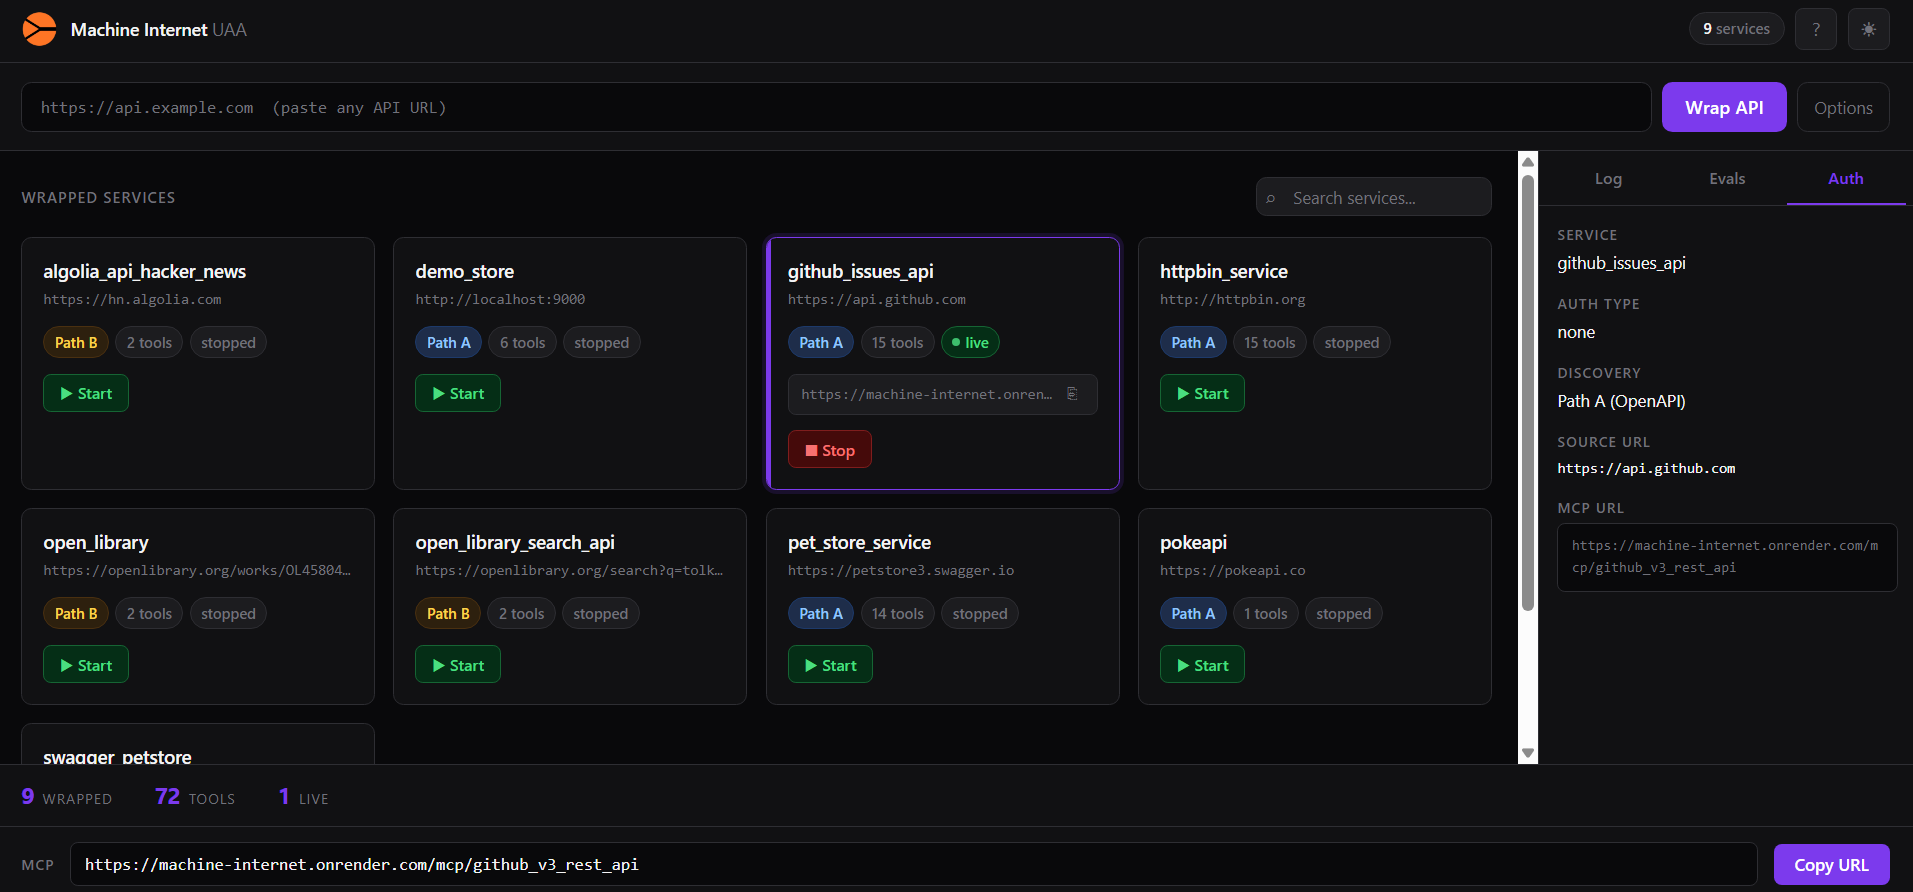
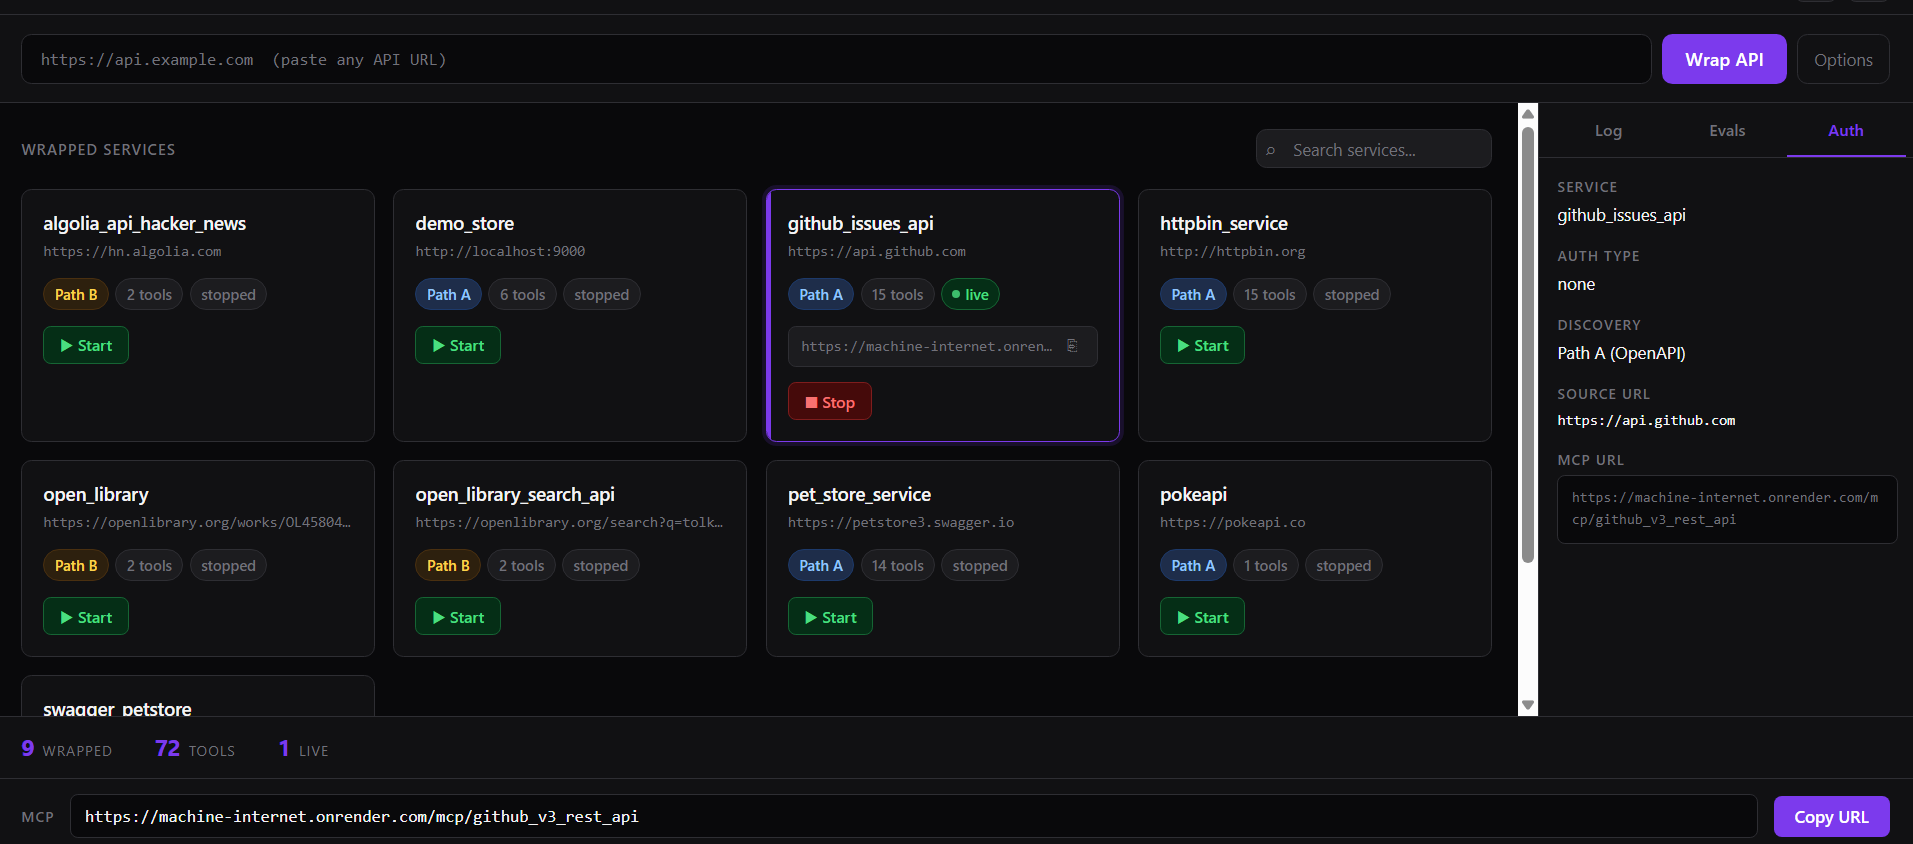
Polish README for launch: badges, links, crop UAA header, tighten demo section
- Crop top 48px from dashboard.png to remove 'Machine Internet UAA' title bar
- Add three shields.io badges (license, Python, MCP) under tagline
- Add compatibility line before MCP config snippet (Claude Desktop, Cursor, Cline)
- Add hyperlinks to all service names in hosted endpoints and verified on tables
- Tighten demo section: remove blank lines between images and captions
- Add GIF placeholder comment in demo section
- Link microsoft/vscode in Claude MCP screenshot caption
- Fix em dash to regular dash in project structure footer line

diff --git a/README.md b/README.md
@@ -6,11 +6,15 @@ Point it at any URL. It discovers the API surface, condenses it into clean agent
 
 **Live:** [machine-internet.onrender.com](https://machine-internet.onrender.com)
 
+![License](https://img.shields.io/badge/license-Apache%202.0-blue)
+![Python](https://img.shields.io/badge/python-3.10%2B-blue)
+![MCP](https://img.shields.io/badge/MCP-compatible-orange)
+
 ---
 
 ## Use a hosted endpoint right now
 
-No installation. No API keys. Just paste into your MCP config and go.
+Works with Claude Desktop, Cursor, Cline, and any MCP-compatible client.
 
 ```json
 {
@@ -39,12 +43,12 @@ Or wrap any API yourself at [machine-internet.onrender.com](https://machine-inte
 
 | API | Endpoint | Tools |
 |---|---|---|
-| GitHub Issues | `/mcp/github_v3_rest_api` | 15 — list, create, update, comment, label |
-| HN Algolia Search | `/mcp/algolia_api_hacker_news` | 2 — search articles, status |
-| httpbin | `/mcp/httpbin_service` | 15 — inspect, auth, redirect |
-| Open Library | `/mcp/open_library` | 2 — books, affiliate links |
-| Open Library Search | `/mcp/open_library_search_api` | 2 — search books/authors, facets |
-| PokéAPI | `/mcp/pokeapi` | 1 — get Pokemon |
+| [GitHub Issues](https://docs.github.com/en/rest/issues/issues) | `/mcp/github_v3_rest_api` | 15 — list, create, update, comment, label |
+| [HN Algolia Search](https://hn.algolia.com/api) | `/mcp/algolia_api_hacker_news` | 2 — search articles, status |
+| [httpbin](https://httpbin.org) | `/mcp/httpbin_service` | 15 — inspect, auth, redirect |
+| [Open Library](https://openlibrary.org) | `/mcp/open_library` | 2 — books, affiliate links |
+| [Open Library Search](https://openlibrary.org/search) | `/mcp/open_library_search_api` | 2 — search books/authors, facets |
+| [PokéAPI](https://pokeapi.co) | `/mcp/pokeapi` | 1 — get Pokemon |
 
 All endpoints are live and free. Base URL: `https://machine-internet.onrender.com`
 
@@ -54,13 +58,13 @@ Want an API that isn't listed? Wrap it yourself in 30 seconds on the dashboard.
 
 ## Demo
 
-![Machine Internet Dashboard](assets/dashboard.png)
+<!-- GIF coming soon: terminal running discover.py against httpbin, 73 endpoints to 15 tools -->
 
+![Machine Internet Dashboard](assets/dashboard.png)
 *The Machine Internet dashboard. 9 services wrapped, 72 tools available, live MCP endpoints with one-click copy.*
 
 ![Claude calling GitHub data via MCP](assets/claude_mcp.png)
-
-*Claude calling live GitHub data through a Machine Internet MCP endpoint. 17,938 open issues as of today.*
+*Claude calling live [GitHub](https://github.com/microsoft/vscode) data through a Machine Internet MCP endpoint. 17,938 open issues as of today.*
 
 ---
 
@@ -82,7 +86,7 @@ Want an API that isn't listed? Wrap it yourself in 30 seconds on the dashboard.
 Probes 20 standard locations for an OpenAPI or Swagger spec. If found, parses the entire API surface automatically. Zero LLM cost. Works on any documented API.
 
 **Path B: Traffic sniffing**
-If no spec exists, launches headless Chromium, observes XHR traffic while interacting with the page, and uses an LLM to infer a schema from what was captured. Works on SPAs and undocumented services. Verified on PokéAPI and HN Algolia (which calls a different TLD than its website).
+If no spec exists, launches headless Chromium, observes XHR traffic while interacting with the page, and uses an LLM to infer a schema from what was captured. Works on SPAs and undocumented services. Verified on [PokéAPI](https://pokeapi.co) and [HN Algolia](https://hn.algolia.com/api) (which calls a different TLD than its website).
 
 **Condensation**
 Raw API specs can have hundreds of endpoints. An LLM collapses them into 10-15 clean tools with `verb_noun` names and descriptions that tell agents exactly when to use each one. A 400-endpoint CRM becomes `get_customer`, `create_deal`, `log_interaction`.
@@ -126,12 +130,12 @@ python serve.py --schema schemas/httpbin_service.json --port 8100
 
 | Service | Method | Tools | Notes |
 |---|---|---|---|
-| GitHub Issues API | Path A + `--spec --tags issues` | 15 | 1,186 endpoint spec, tag filter to issues |
-| httpbin.org | Path A auto-detected | 15 | Spec at `/spec.json` |
-| HN Algolia | Path B traffic sniff | 2 | SPA, API on different TLD |
-| PokéAPI | Path B traffic sniff | 1 | No spec anywhere |
-| Open Library | Path B traffic sniff | 2 | Mostly SSR, search page works |
-| Petstore v2 + v3 | Path A auto-detected | 14-15 | Standard Swagger paths |
+| [GitHub Issues API](https://docs.github.com/en/rest/issues/issues) | Path A + `--spec --tags issues` | 15 | 1,186 endpoint spec, tag filter to issues |
+| [httpbin.org](https://httpbin.org) | Path A auto-detected | 15 | Spec at `/spec.json` |
+| [HN Algolia](https://hn.algolia.com/api) | Path B traffic sniff | 2 | SPA, API on different TLD |
+| [PokéAPI](https://pokeapi.co) | Path B traffic sniff | 1 | No spec anywhere |
+| [Open Library](https://openlibrary.org) | Path B traffic sniff | 2 | Mostly SSR, search page works |
+| [Petstore v2](https://petstore.swagger.io) + [v3](https://petstore3.swagger.io) | Path A auto-detected | 14-15 | Standard Swagger paths |
 
 ---
 
@@ -190,7 +194,7 @@ src/
 evals/            ground truth schemas and scoring scripts
 ```
 
-Full technical breakdown including architecture decisions, eval results, and build log: [BUILD_REPORT.md](BUILD_REPORT.md)
+Full technical breakdown — architecture decisions, eval results, build log: [BUILD_REPORT.md](BUILD_REPORT.md)
 
 ---
 